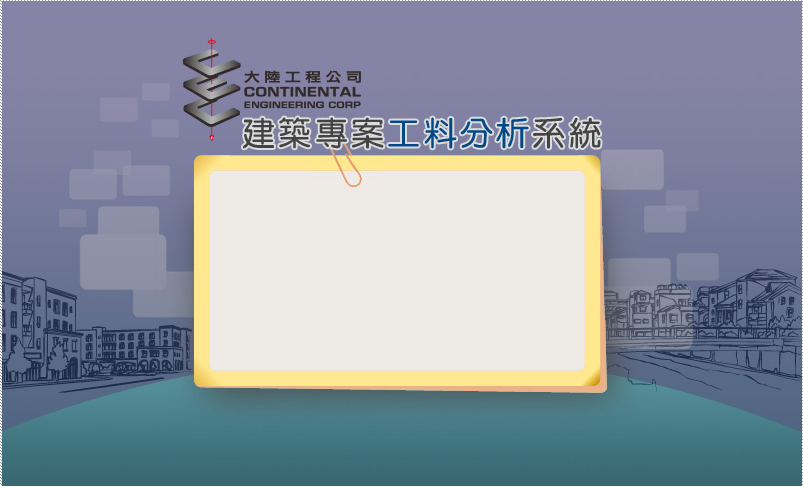
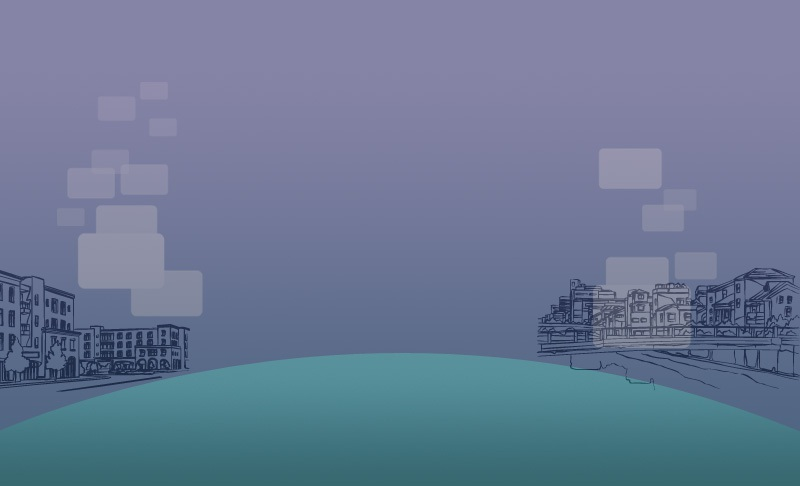
3/8

diff --git a/public/css/Layout/login.less b/public/css/Layout/login.less
@@ -1,13 +1,59 @@
 #login{
   display: block;
+  position: relative;
+  .index-logo{
+    width: 280px;
+    position: absolute;
+    top:-180px;
+    left:0;
+  }
+  .index-title{
+    font-size: 3em;
+
+    font: bold 40px/90% "微軟正黑體", "Lucida Grande", "Lucida Sans", Helvetica, Arial, Sans;;
+    position: absolute;
+    top:-50px;
+    left:100px;
+    text-shadow: 0px -2px 3px #FFF,2px 0px 3px #FFF;
+    .title-color-blue{
+      color:#0C4D8A;
+    }
+
+  }
+
 
 }
-
-#loginForm{
-  padding: 200px;
-  width: 350px;
-  margin: 20px auto;
+.indexContext{
+  width:100vw;
+  height: 100vh;
   background-image: url('../../images/index.png') ;
   background-repeat:no-repeat;
   background-size: 100% 100%;
+  display: flex;
+  align-items:center;
+  justify-content:center;
+}
+#loginForm{
+  width: 600px;
+  height: 350px;
+  display: flex;
+  align-items:center;
+  justify-content:center;
+  margin: 0 auto;
+  background-image: url('../../images/index1.png') ;
+  background-repeat:no-repeat;
+  background-size: 100% 100%;
+  .btn{
+    margin: 10px;
+    padding: 5px 20px;
+    background-color: #3CA6D3;
+    border: none;
+    font-size: 1.2em;
+    font-weight: bold;
+    border-radius: 5px;
+  }
+  .btn:hover{
+    cursor: pointer;
+  }
+
 }

diff --git a/public/js/index/Login.js b/public/js/index/Login.js
@@ -10,17 +10,19 @@ const Login = React.createClass({
   render(){
     return (
       <div id="login">
-
+        <img src="../../images/cec_logo.png" className="index-logo"/>
+        <div className="index-title">建築專案<span className="title-color-blue">工料分析</span>系統</div>
         <div id="loginForm">
-        <div className="">
+        <form>
           <TextField label = "帳號" id="account" name="account" type="text"
                  onChange={this.filedChange.bind(null,'account')} onEnterKeyDown={this._handleOnEnterKeyDown.bind(null,1)}
                  onFocus={this._handleOnFocus}  />
           <TextField  label = "密碼" id="password" name="password" type="password"
                   onChange={this.filedChange.bind(null,'password')} onEnterKeyDown={this._handleOnEnterKeyDown.bind(null,2)}
                   onFocus={this._handleOnFocus}  />
-          <button onClick={this.handleClick}>登入</button>
-        </div>
+          <button onClick={this.handleClick} type="button" className="btn">登入</button>
+          <button  type="button" className="btn">清除</button>
+        </form>
         </div>
 
       </div>

diff --git a/public/js/main/page/addProject.js b/public/js/main/page/addProject.js
@@ -30,8 +30,7 @@ const AddProject = React.createClass({
     var lists = this.state.projectList;
 
     var toolbar =[{name:'開新專案',clickFun:'addProject',icon:'icon-drive-file'},
-                  {name:'儲存專案',clickFun:'updateProject',icon:'icon-save'},
-                  {name:'另存專案',clickFun:'insertProject',icon:' icon-queue'}];
+                  {name:'儲存專案',clickFun:'updateProject',icon:'icon-save'}];
     return (
       <div>
       <Breadcrumb header="工程專案" toolbar={toolbar} addProject={this._handleAddProject} insertProject = {this._handleInsertProject} updateProject = {this._handleUpdateProject}/>

diff --git a/public/js/main/app-router.js b/public/js/main/app-router.js
@@ -12,14 +12,14 @@ var SettingCategories = require('./page/Categories');
 
 
 // <Route path="/project/all" component={AllProject} />
-
+  <Route path="home" component={Home} />
 const AppRoutes = (
   <Route path="/" component={Master}>
-    <Route path="home" component={Home} />
+
     <Route path="/project/add" component={AddProject} />
     <Route path="/project/edit" component={EditProject} />
     <Route path="/setting/categories" component={SettingCategories} />
-    <IndexRoute component={Home}/>
+    <IndexRoute component={AddProject}/>
   </Route>
 );
 

diff --git a/server/service/ItemService.js b/server/service/ItemService.js
@@ -100,9 +100,9 @@ module.exports = {
       this.getWorkItemMappingTree(workItemId,function(datas){
         this.saveNodeItems(datas,ProjectId,node_parentId,function(childs){
           node.children = childs;
-            callback(node);
-        });
 
+        });
+        callback(node);
       }.bind(this));
     }.bind(this),function(err){
       console.log(err);

diff --git a/public/js/index.js b/public/js/index.js
@@ -4,7 +4,7 @@ const Login = require('./index/Login');
 
 require('../css/index');
 ReactDOM.render(
-  <div>
+  <div className="indexContext">
     <Login />
   </div>
   ,document.getElementById('app')
